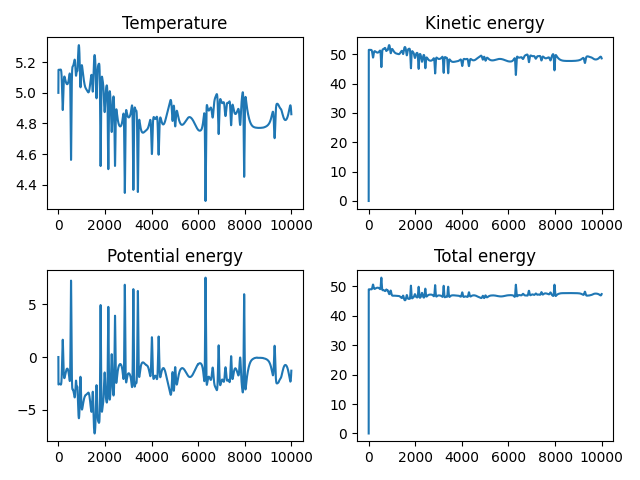
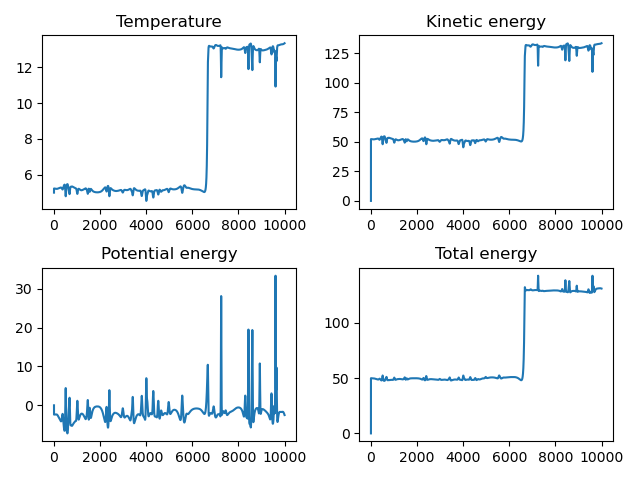
Updates

diff --git a/Run.py b/Run.py
@@ -2,9 +2,16 @@ import numpy as np
 import matplotlib.pyplot as plt
 from MD_System_Class import Simulated_System as md
 
+# Name of the log files
+name = "dt005"
+# Alpha values
+alpha = 1
+# dt values
+delta_t = 0.05
+
 
 # Initialise MD system:
-simulation = md(lx=20, rho=0.05, sigma=1, T=5, dt=0.001, r_cut=2.5)
+simulation = md(lx=20, rho=0.05, sigma=1, T=5, dt=delta_t, r_cut=2.5)
 
 
 # Making N moves
@@ -21,15 +28,16 @@ for i in range(N):
     kinetic_energy[i] = simulation.kinetic_E
     potential_energy[i] = simulation.potential_E
     total_energy[i] = simulation.E
-    simulation.move(m=1, alpha=1, log_file="", f_log=0.0001)
+    simulation.move(m=1, alpha=alpha, log_file="", f_log=0.0001)
     if i == 100:
+        velocities = np.array([np.linalg.norm(i.velocity) for i in simulation.Particles])
+        ms_velocity = np.mean(velocities**2)
+        D = ms_velocity/(4*simulation.dt)
         output = open(name+".txt", "w")
         output.write("Diffusion coefficient at final stage is "+str(D)[:5])
         output.close()
 
-velocities = np.array([np.linalg.norm(i.velocity) for i in simulation.Particles])
-ms_velocity = np.mean(velocities**2)
-D = ms_velocity/(4*simulation.dt)
+
 
 # Ploting Temperature, kinetic energy, potential energy and Total energy
 fig = plt.figure()
@@ -55,7 +63,6 @@ plt.tight_layout()
 
 # Saving figures
 # Name of the parameter
-name = "dt0001"
 plt.savefig(name+'.png')
 
 fig = plt.figure()
